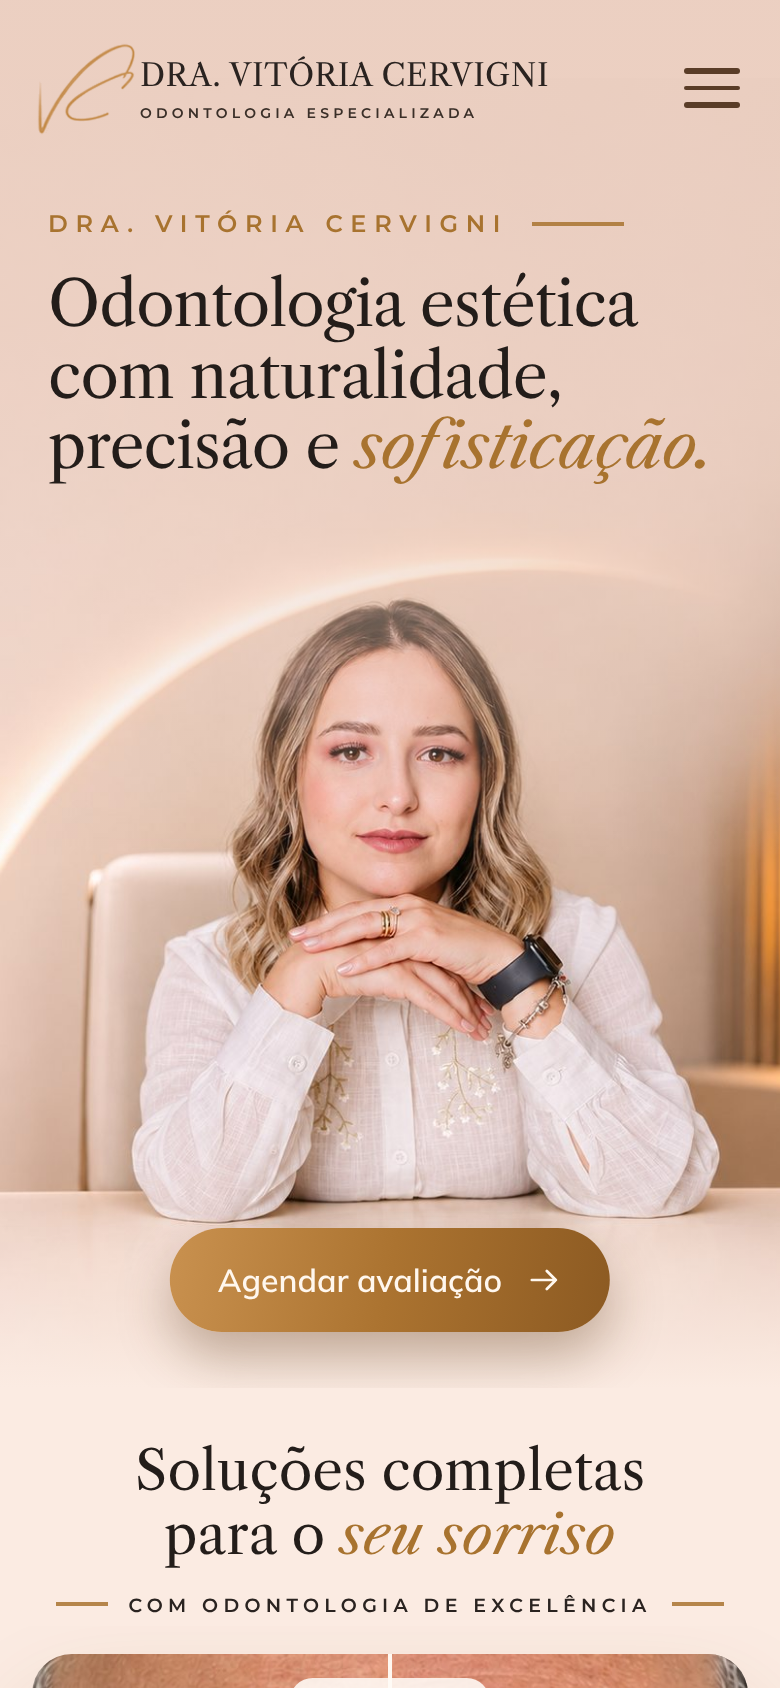
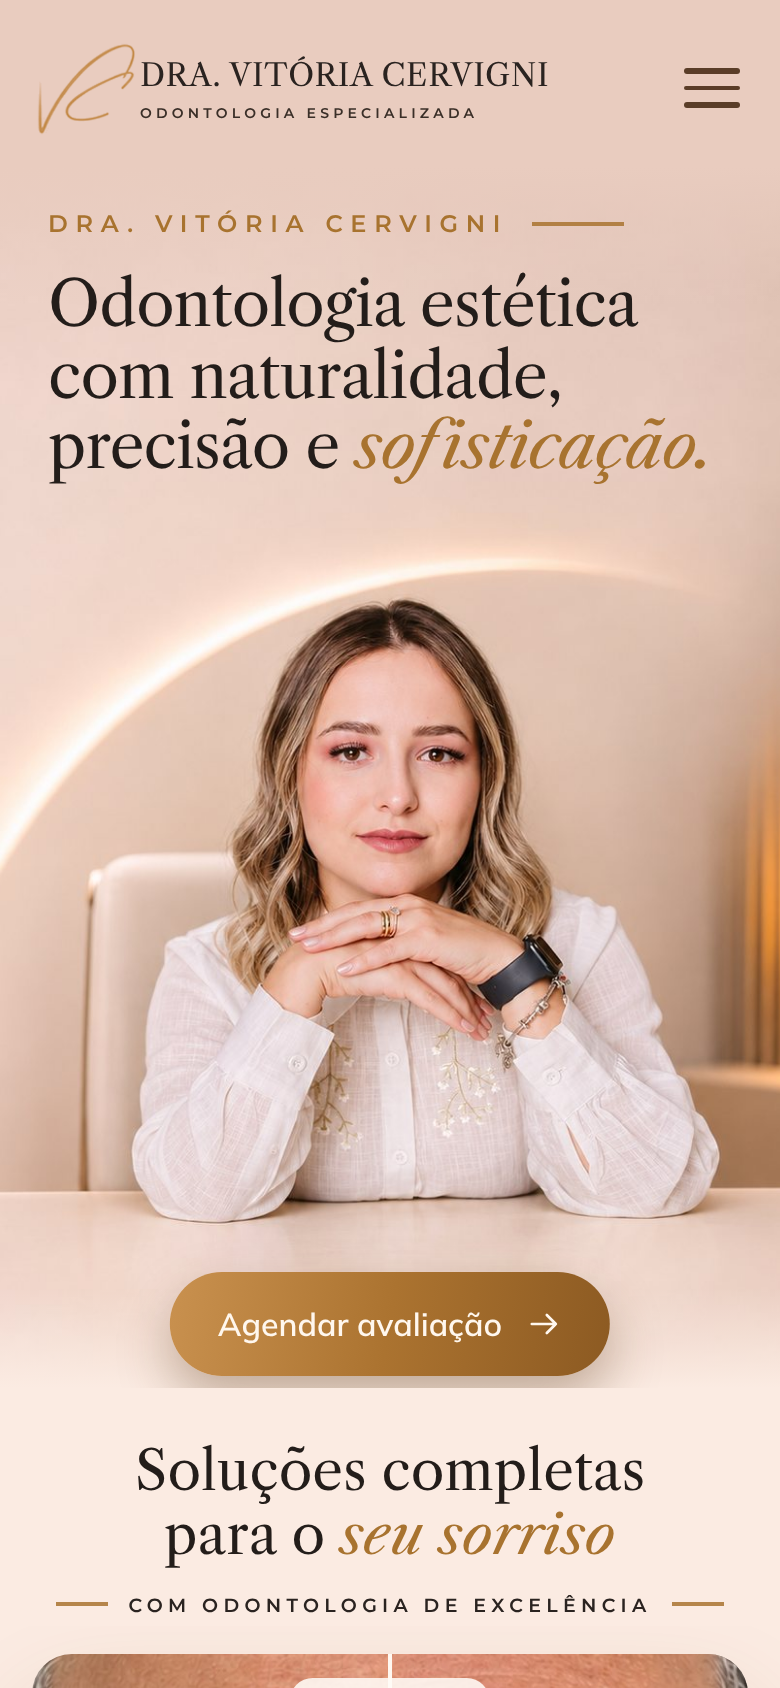
Mobile hero: remove overlay over face, lower CTA, blend top edge
Claude-Session: https://claude.ai/code/session_011M2KAfbiXzYiuKdHpfC1dX

Changed region(s): [[0.2154, 0.7085, 0.8, 0.8318], [0.3385, 0.3389, 0.6769, 0.4621], [0.4308, 0.4313, 0.4615, 0.4621]]

diff --git a/site/index.html b/site/index.html
@@ -648,11 +648,9 @@
   .m-hero,.m-heading{display:none}
   @media (max-width:760px){
     .band-top{display:none}
-    .m-hero{display:block;position:relative;min-height:min(178vw,920px);background:#e9cbbd url('assets/hero-mobile.jpg') 50% 100%/112% auto no-repeat;overflow:hidden;
+    .m-hero{display:block;position:relative;min-height:min(178vw,920px);background:linear-gradient(180deg,#e9ccbf 0,#e9ccbf 12%,rgba(233,204,191,0) 22%) top/100% 100% no-repeat,url('assets/hero-mobile.jpg') 50% 100%/112% auto no-repeat,#e9ccbf;overflow:hidden;
       padding-top:env(safe-area-inset-top,0px)}
-    .m-hero::before{content:"";position:absolute;inset:0 0 auto;height:62%;pointer-events:none;
-      background:linear-gradient(180deg,rgba(236,208,194,.92) 0%,rgba(236,208,194,.78) 45%,rgba(236,208,194,0) 100%)}
-    .m-hero::after{content:"";position:absolute;inset:auto 0 0;height:90px;background:linear-gradient(180deg,rgba(251,235,226,0),var(--mid));pointer-events:none}
+    .m-hero::after{content:"";position:absolute;inset:auto 0 0;height:50px;background:linear-gradient(180deg,rgba(251,235,226,0),var(--mid));pointer-events:none}
     .m-top{position:relative;z-index:3;display:flex;align-items:center;justify-content:space-between;padding:18px max(20px,env(safe-area-inset-left,0px)) 0 max(14px,env(safe-area-inset-left,0px))}
     .m-logo{display:flex;align-items:center}
     .m-logo img{width:58px;margin-right:-2px}
@@ -668,7 +666,7 @@
     .m-eyebrow::after{content:"";width:46px;height:1.5px;background:var(--gold);opacity:.85}
     .m-title{margin-top:16px;font-family:var(--serif);font-weight:400;font-size:clamp(28px,8vw,38px);line-height:1.14;letter-spacing:-.015em;color:#231d1a;text-wrap:pretty}
     .m-title em{font-style:italic;color:var(--gold)}
-    .m-cta{position:absolute;z-index:3;left:50%;bottom:28px;transform:translateX(-50%);display:flex;align-items:center;gap:12px;height:52px;padding:0 24px;border-radius:999px;white-space:nowrap;
+    .m-cta{position:absolute;z-index:3;left:50%;bottom:6px;transform:translateX(-50%);display:flex;align-items:center;gap:12px;height:52px;padding:0 24px;border-radius:999px;white-space:nowrap;
       color:#fff7ee;font-weight:600;font-size:16px;background:linear-gradient(100deg,#c9914f 0%,#ab7330 50%,#8c5a22 100%);box-shadow:0 12px 26px rgba(90,55,20,.35)}
     .m-cta svg{width:18px;height:18px}
     .m-menu{position:absolute;z-index:4;top:calc(76px + env(safe-area-inset-top,0px));left:14px;right:14px;display:flex;flex-direction:column;padding:10px;border-radius:20px;
